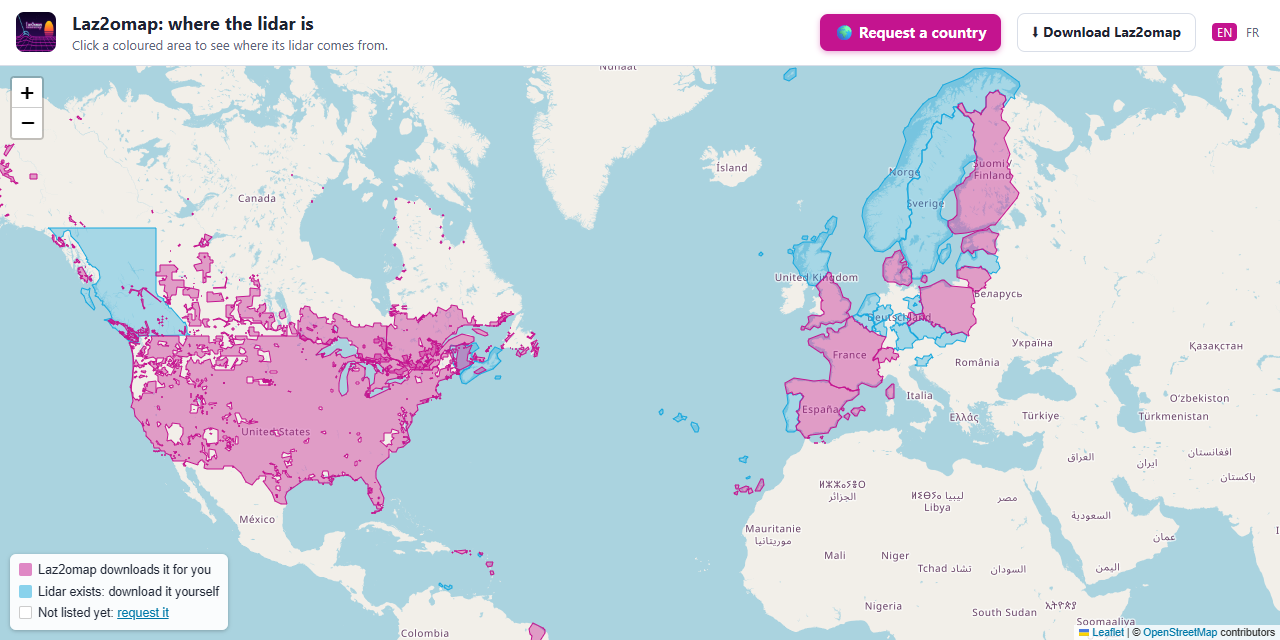
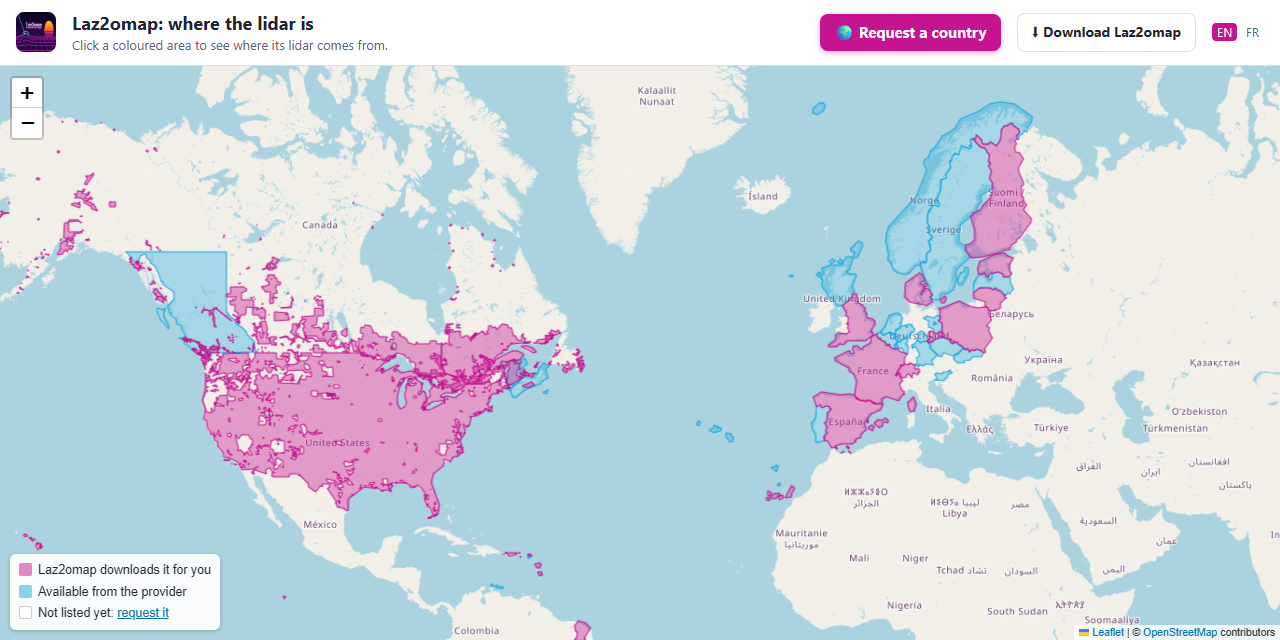
Download page for 5.46.0

diff --git a/docs/index.html b/docs/index.html
@@ -59,7 +59,7 @@ L.tileLayer('https://tile.openstreetmap.org/{z}/{x}/{y}.png', {maxZoom: 12,
 const key = L.control({position: 'bottomleft'});
 key.onAdd = () => { const d = L.DomUtil.create('div', 'key');
   d.innerHTML = `<span style="background:rgba(196,20,143,.5)"></span>${T('Laz2omap downloads it for you', 'Laz2omap le télécharge pour vous')}<br>` +
-    `<span style="background:rgba(24,168,222,.5)"></span>${T('Lidar exists: download it yourself', 'Le lidar existe : à télécharger vous-même')}<br>` +
+    `<span style="background:rgba(24,168,222,.5)"></span>${T('Available from the provider', 'Disponible chez le fournisseur')}<br>` +
     `<span style="background:#fff;border:1px solid #ccc"></span>${T('Not listed yet: ', 'Pas encore listé : ')}<a href="${REQ}" target="_blank" rel="noopener">${T('request it', 'demandez-le')}</a>`;
   return d; };
 key.addTo(map);
@@ -70,11 +70,11 @@ function popup(p) {
   const name = LANG === 'fr' ? p.name_fr : p.name_en;
   if (p.kind === 'auto') return `<h3>${esc(name)}</h3><span class="tagp" style="background:var(--pink)">${T('Automatic in Laz2omap', 'Automatique dans Laz2omap')}</span>` +
     `<p>${T('Find lidar downloads it for you, from:', 'Trouver le lidar le télécharge pour vous, depuis :')}<br><b>${esc(p.provider)}</b></p>` +
-    (p.also.length ? `<p class="muted" style="margin-bottom:0">${T('Also available, newer or better, to download yourself:', 'Aussi disponible, plus récent ou meilleur, à télécharger vous-même :')}</p><ul>${p.also.map(li).join('')}</ul>` : '') +
+    (p.also.length ? `<p class="muted" style="margin-bottom:0">${T('Also available, newer or better, from the provider:', 'Aussi disponible, plus récent ou meilleur, chez le fournisseur :')}</p><ul>${p.also.map(li).join('')}</ul>` : '') +
     `<a href="${req(name)}" target="_blank" rel="noopener">${T('Something missing? Tell us', 'Il manque quelque chose ? Dites-le-nous')}</a>`;
-  return `<h3>${esc(name)}</h3><span class="tagp" style="background:var(--blue)">${T('Download it yourself', 'À télécharger vous-même')}</span>` +
+  return `<h3>${esc(name)}</h3><span class="tagp" style="background:var(--blue)">${T('Available from the provider', 'Disponible chez le fournisseur')}</span>` +
     `<p style="margin-bottom:0">${T('Lidar available through:', 'Lidar disponible auprès de :')}</p><ul>${p.sources.map(li).join('')}</ul>` +
-    `<p class="muted">${T('Download it from their website, then use Add my own tiles… in Laz2omap.', 'Téléchargez-le sur leur site, puis utilisez Ajouter mes propres tuiles… dans Laz2omap.')}</p>` +
+    `<p class="muted">${T('Get it from their website, then use Add my own tiles… in Laz2omap.', 'Obtenez-le sur leur site, puis utilisez Ajouter mes propres tuiles… dans Laz2omap.')}</p>` +
     `<a class="btn req" style="font-size:13px;padding:6px 10px" href="${req(name)}" target="_blank" rel="noopener">🌍 ${T('Ask for automatic download', 'Demander le téléchargement automatique')}</a>`;
 }
 fetch('coverage.geojson').then(r => r.json()).then(gj => {

diff --git a/README.md b/README.md
@@ -57,11 +57,12 @@ nécessaire pour l'envoyer). En anglais ou en français.
 **[🗺 Open the interactive coverage map / Ouvrir la carte interactive](https://laz2omap.github.io/laz2omap/)**: click a country to see where its lidar
 comes from and where to download it. / cliquez un pays pour voir d'où vient son lidar et où le télécharger.
 
-<p align="center"><a href="https://laz2omap.github.io/laz2omap/"><img src="coverage_map.png" width="760" alt="Lidar coverage map: pink = Laz2omap downloads it, blue = download it yourself"></a></p>
+<p align="center"><a href="https://laz2omap.github.io/laz2omap/"><img src="coverage_map.png" width="760" alt="Lidar coverage map: pink = Laz2omap downloads it, blue = available from the provider"></a></p>
 
-**Pink:** Laz2omap downloads the lidar for you. **Blue:** the lidar exists; Laz2omap tells you where to download it,
-then takes your .laz tiles. / **Rose :** Laz2omap télécharge le lidar pour vous. **Bleu :** le lidar existe ; Laz2omap
-vous dit où le télécharger, puis prend vos tuiles .laz.
+**Pink:** Laz2omap downloads the lidar for you. **Blue:** the lidar is available from the provider; Laz2omap shows you
+where to get it, then makes the map from your .laz tiles. / **Rose :** Laz2omap télécharge le lidar pour vous.
+**Bleu :** le lidar est disponible chez le fournisseur ; Laz2omap vous montre où l'obtenir, puis fait la carte avec vos
+tuiles .laz.
 
 ### [🌍 Request a country / Demander un pays](https://github.com/laz2omap/laz2omap/issues/new?template=3-country.yml)
 
